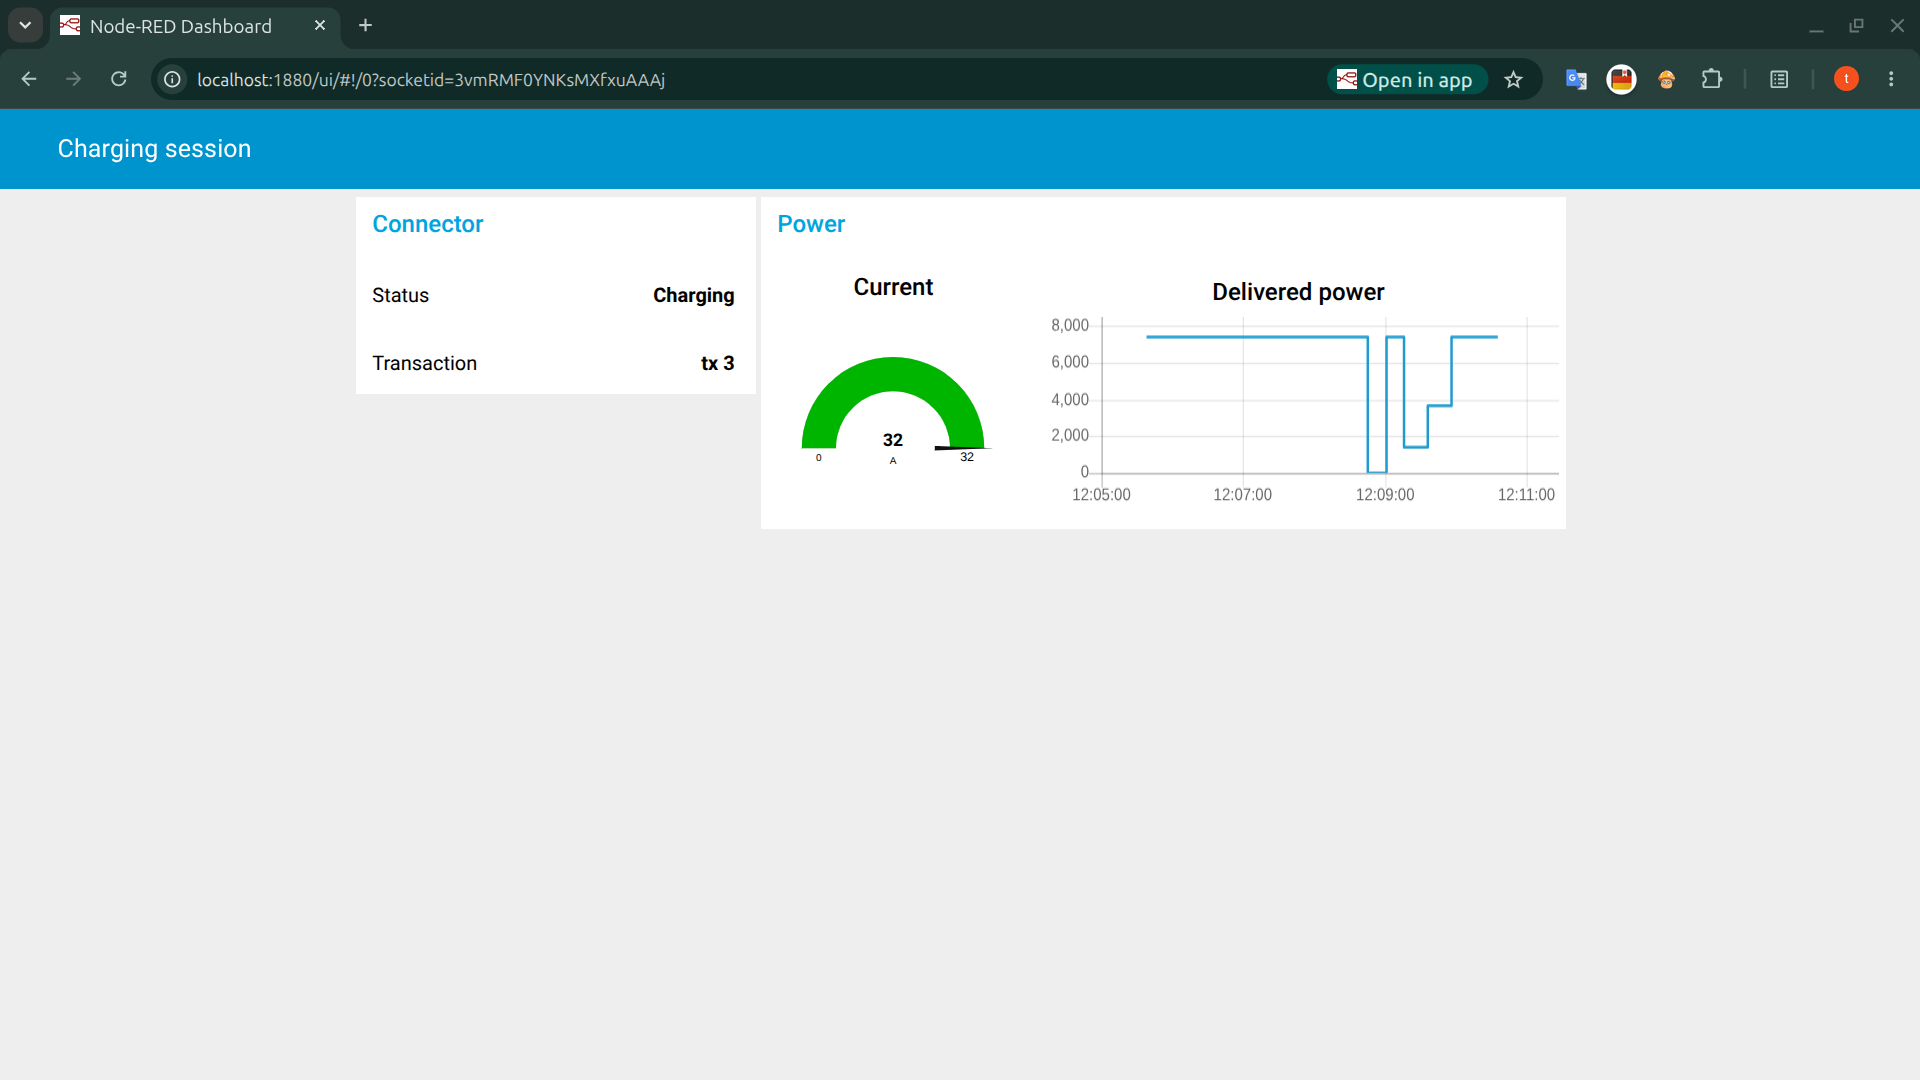
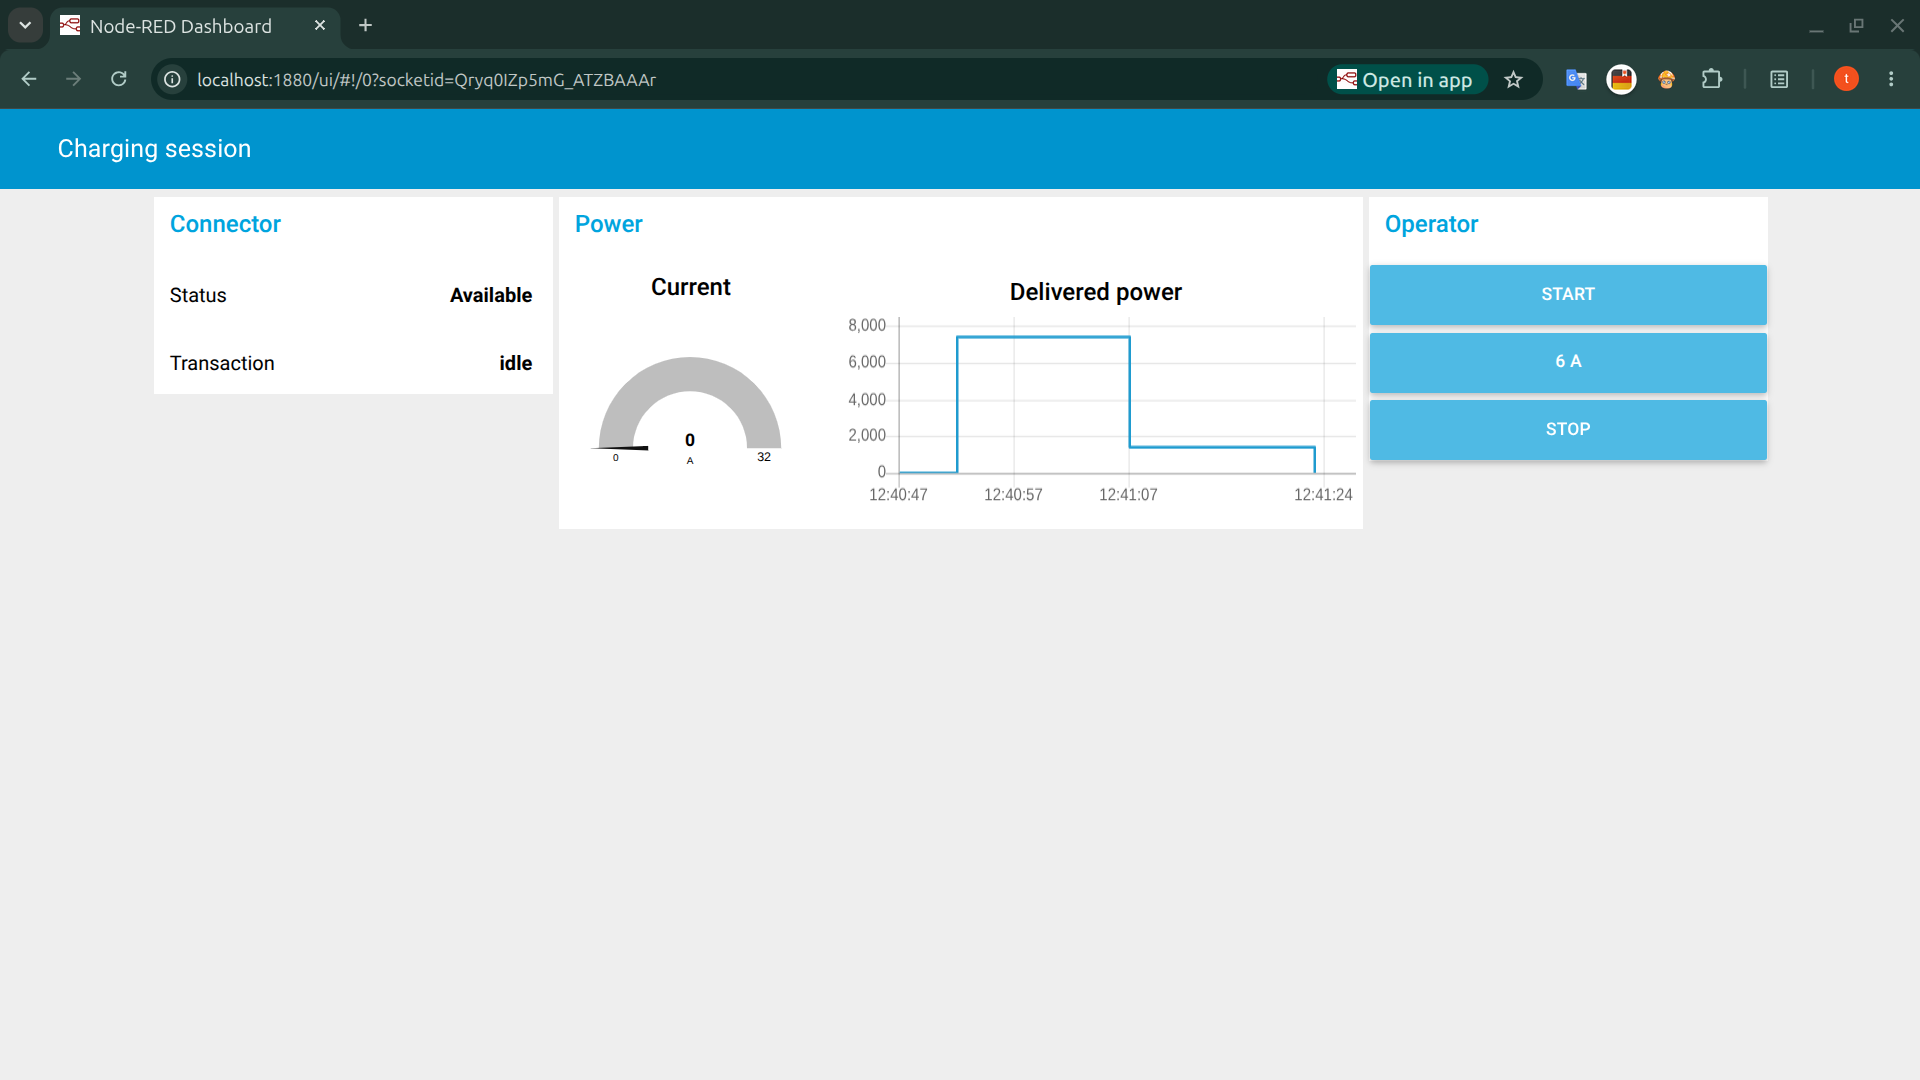
docs: complete day 6 with the operator dashboard screenshot
The previous screenshot was the dashboard as a read-only display. This
one has the Operator group, and the power trace behind it is a full
session driven entirely from that panel: idle, start, curtail to 6 A,
stop.

Also syncs both flow files back from the running Node-RED, which is
where the buttons, links and the SetChargingProfile change were actually
built.

diff --git a/docs/14-DAY-PLAN.md b/docs/14-DAY-PLAN.md
@@ -57,7 +57,7 @@ only reading produces nothing you can show.
 ### Day 6 · Dashboard / 仪表盘
 
 - [X] Install `node-red-dashboard`, import `flows-dashboard.json`, wire the links.
-- [ ] Finish the `ui_button` TODO so the dashboard replaces the inject nodes.
+- [X] Finish the `ui_button` TODO so the dashboard replaces the inject nodes.
 
 - **Commit:** 📸 `screenshots/dashboard.png`.
 
